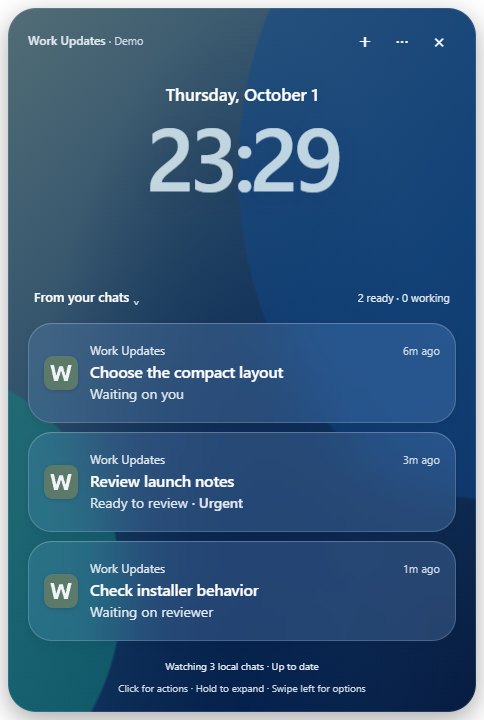
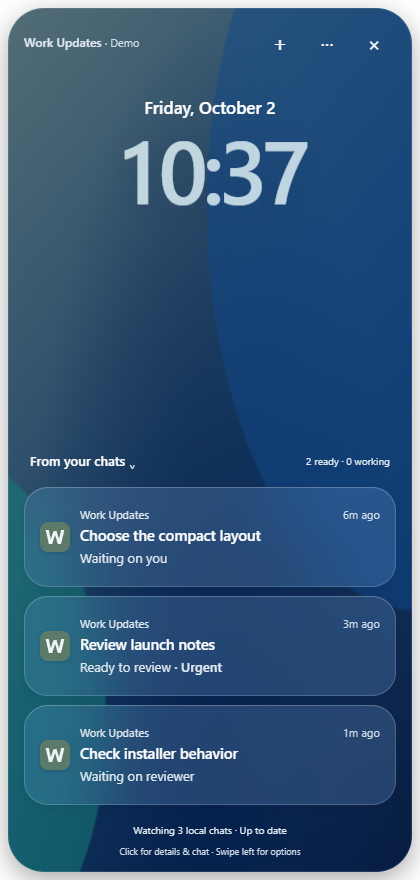
Open full task details on click and restore native panel close clicks

diff --git a/ui/index.html b/ui/index.html
@@ -13,7 +13,7 @@
         <div class="toolbar-actions">
           <button id="new-task" class="icon" aria-label="New task" title="New task">＋</button
           ><button id="settings" class="icon" aria-label="Settings">···</button
-          ><button id="hide" class="icon" aria-label="Hide to tray">×</button>
+          ><button id="hide" class="icon" aria-label="Hide to tray" title="Hide queue">×</button>
         </div>
       </header>
       <section class="clock-area" aria-label="Local time">
@@ -30,7 +30,7 @@
         <button id="show-all" class="quiet" hidden>Show all</button
         ><button id="undo" class="quiet" hidden>Undo</button>
         <div id="connection" role="status">Connecting to local chats…</div>
-        <div class="gesture-hint">Click for actions · Hold to expand · Swipe left for options</div>
+        <div class="gesture-hint">Click for details & chat · Swipe left for options</div>
       </footer>
     </main>
     <div id="scrim" hidden>

diff --git a/ui/app.js b/ui/app.js
@@ -242,7 +242,7 @@ if ($('corner-toggle')) {
         replacement.dataset.id = id;
         bindPress(
           replacement,
-          () => showCard(id, false),
+          () => showCard(id, true),
           () => showCard(id, true),
           view !== 'done' && card.status !== 'queued'
             ? (dx) => {
@@ -353,6 +353,7 @@ if ($('corner-toggle')) {
     $('panel').replaceChildren();
     $('panel').setAttribute('aria-label', title);
     $('scrim').hidden = false;
+    document.body.classList.add('panel-open');
     $('shell').inert = true;
     const top = node('div');
     top.className = 'panel-top';
@@ -374,6 +375,7 @@ if ($('corner-toggle')) {
     selected = null;
     swipeId = null;
     $('scrim').hidden = true;
+    document.body.classList.remove('panel-open');
     $('shell').inert = false;
     render();
     if (before?.isConnected) before.focus();

diff --git a/ui/style.css b/ui/style.css
@@ -42,6 +42,7 @@ select {
   font: inherit;
 }
 button {
+  -webkit-app-region: no-drag;
   border: 0;
   border-radius: 12px;
   background: #ffffff16;
@@ -88,8 +89,9 @@ button.quiet:hover {
   background: #ffffff14;
 }
 button.icon {
-  min-width: 34px;
-  min-height: 34px;
+  min-width: 44px;
+  min-height: 44px;
+  flex-shrink: 0;
   padding: 4px;
   font-size: 20px;
   background: transparent;
@@ -141,6 +143,11 @@ button.icon:hover {
 .toolbar-actions {
   display: flex;
   gap: 3px;
+  -webkit-app-region: no-drag;
+}
+/* Native caption regions still intercept clicks through a DOM modal. */
+body.panel-open .toolbar,
+body.panel-open .clock-area {
   -webkit-app-region: no-drag;
 }
 .clock-area {
@@ -405,6 +412,7 @@ footer button {
   margin-top: 8px;
 }
 #scrim {
+  -webkit-app-region: no-drag;
   position: fixed;
   inset: 8px;
   border-radius: 28px;

diff --git a/docs/DESIGN.md b/docs/DESIGN.md
@@ -10,13 +10,13 @@ A card shows the task title, status, and age. Chat names and message text live i
 
 | Input                      | Card                             | New-task button                       |
 | -------------------------- | -------------------------------- | ------------------------------------- |
-| Left click / Enter / Space | Focused action panel             | Task composer                         |
+| Left click / Enter / Space | Details and compact conversation | Task composer                         |
 | Hold 650 ms                | Details and compact conversation | Composer with project options         |
 | Right click / Shift+F10    | Same details and conversation    | Same composer with project options    |
 | Escape / outside click     | Return to the queue              | Cancel composer; preserve typed draft |
 | Swipe left                 | Reveal Snooze and Reviewed       | —                                     |
 
-Menus are accelerators, never the sole route to a feature. A visible **Details & chat** action gives keyboard and mouse users a discoverable alternative to holding.
+Click opens the full task information and compact conversation directly. Hold and context-menu gestures are optional alternatives to the same view. Open chat, Mark done, Reviewed and Snooze 1h remain below the expanded content.
 
 New tasks have a title, prompt, and optional workspace. **Queue task** saves a draft without starting inference. **Start chat** creates one conversation for that task. Starting is idempotent; retry after failure resumes the same conversation. The default task workspace is a dedicated folder. Permission prompts and blockers stay visible until answered; the app never silently accepts them.
 
@@ -34,7 +34,7 @@ The user's latest direction replaces the iCloud dashboard surface treatment. Use
 
 The compact/options images are explicitly named iOS 26; the developer example is older. They establish visible structure, not pixel-exact iOS 27 rendering. Apple's [current iPhone notification guide](https://support.apple.com/guide/iphone/view-and-respond-to-notifications-iph6534c01bc/ios) verifies hold-to-expand and quick actions. No verified current iOS 27 hold screenshot was found. Do not claim these assets demonstrate it.
 
-Keep click for quick actions, as requested earlier. Apple normally uses tap to open the source app: our mapping is an explicit desktop adaptation. Hold 650 ms expands the same card, with press feedback and origin-based expansion, full context, a reply and actions. Right click and Shift+F10 provide the same expanded view. Escape/outside click closes and returns focus. Dragging cancels the hold; releasing a successful hold never opens a second panel. Reduced motion removes press/expansion animations.
+Click now expands the notification directly, following the user's October 2 update. Apple normally uses tap to open the source app: our mapping is an explicit desktop adaptation. Hold 650 ms opens the same view, with press feedback and origin-based expansion, full context, a reply and actions. Right click and Shift+F10 provide the same expanded view. Escape/outside click closes and returns focus. Dragging cancels the hold; releasing a successful hold never opens a second panel. Reduced motion removes press/expansion animations.
 
 Remove the split slate header/black body, colored status pills, always-visible per-card X, decorative fake stacks and blue/green action blocks. Underlays mean actual grouped chats only. Use a continuous frosted material and monochrome command rows. Text remains readable against the original background. Windows uses Segoe UI fallback; CSS backdrop blur approximates the material and does not implement Apple's native Liquid Glass optics.
 
@@ -46,13 +46,13 @@ The weather input surface must stay above the taskbar while the pointer is insid
 
 The target uses a 220 ms hover dwell to open a temporary peek without stealing focus. Leaving both target and queue for 400 ms closes the peek. Clicking either retains it; dragging its header retains it and remembers the new position. Clicking the target again hides it and suppresses another hover until the pointer leaves. Dock the peek above the taskbar, preserve the previous floating position during temporary peeks, and preserve explicit hide/keyboard/tray controls. These are product-specific desktop behaviors, not Apple's Lock Screen gestures.
 
-With the weather shortcut enabled, launching or relaunching starts the background companion without pinning the queue open. An explicit Show queue action retains it; the X hides it and leaves the weather shortcut running. Verify X with actual Windows mouse input as well as renderer tests. A relaunch after hiding must not reveal or retain the queue. Test header dragging and weather clicks against the installed app, not just calls to its window controller.
+With the weather shortcut enabled, launching or relaunching starts the background companion without pinning the queue open. An explicit Show queue action retains it; the X hides it and leaves the weather shortcut running. The panel X returns to the queue. All icon controls have 44px targets. Opening a panel disables the underlying native caption regions: DOM overlays and inert alone do not stop Windows intercepting their clicks as dragging. Verify the panel X has a native client hit and closes with actual Windows mouse input as well as renderer tests. A relaunch after hiding must not reveal or retain the queue. Test header dragging and weather clicks against the installed app, not just calls to its window controller.
 
 Keep existing notification DOM, decoded icons and blur layers when visibility changes or an unchanged watcher heartbeat arrives. Only replace the queue when its visible content changes, and assemble changes before replacing it. Repeated hovers must each reveal the queue once without rebuilding unchanged cards.
 
 Reveal the whole desktop surface from the left over 240 ms and reverse the same motion on dismissal. Use a transparent, shadowless native surface that stays painted after startup, with mouse input ignored while concealed; do not cycle native show/hide on hover. Concealed content is fully outside the viewport and transparent, including panels and notices. Preserve hover focus, click retention, saved drag positions and rapid direction reversal. Reduced motion reveals and conceals immediately. Verify rendered motion and transparent concealed pixels, rather than counting native show events as proof against flashing. This left-edge motion is the user's desktop requirement, not a claimed Apple gesture.
 
-Use a 420×880 portrait notification queue, limited by the display's available height. This extends the weather preview upward while keeping its bottom anchor and gives the surface the tall, narrow silhouette of the inspected Apple Lock Screen reference. Keep the quiet Work Updates toolbar, date and clock above the notifications; give the clock 32px of top space and round the continuous outer surface to 36px. Do not add a fake notch, bezel, battery or signal indicators. A heading menu opens Updates, Queued and Done; the plus button opens the composer. At 390×590, reduce clock space and card padding while keeping titles readable and controls reachable. Expanded windows retain one readable queue column. Card titles wrap to two lines; full text is available by holding. Long waiting-owner text wraps. Panels retain the background queue's positions while open, and replies survive dismissal. Main command targets are at least 44px; keyboard focus remains visible; collapsed settings do not participate in the dialog's Tab cycle. Verify the taller preview fits above the taskbar and all quick-action and hold controls remain reachable.
+Use a 420×880 portrait notification queue, limited by the display's available height. This extends the weather preview upward while keeping its bottom anchor and gives the surface the tall, narrow silhouette of the inspected Apple Lock Screen reference. Keep the quiet Work Updates toolbar, date and clock above the notifications; give the clock 32px of top space and round the continuous outer surface to 36px. Do not add a fake notch, bezel, battery or signal indicators. A heading menu opens Updates, Queued and Done; the plus button opens the composer. At 390×590, reduce clock space and card padding while keeping titles readable and controls reachable. Expanded windows retain one readable queue column. Card titles wrap to two lines; full text is available by clicking. Long waiting-owner text wraps. Panels retain the background queue's positions while open, and replies survive dismissal. Main command targets are at least 44px; keyboard focus remains visible; collapsed settings do not participate in the dialog's Tab cycle. Verify the taller preview fits above the taskbar and all details and action controls remain reachable.
 
 Waiting on you always sorts first, then urgent items, then other actionable blockers and review items. Ordinary working items and external waits follow. Waiting cards must identify the owner. Extract only explicit names or roles from the latest recorded response; unknown owners are labeled as unclear. Details support a named waiting owner and Automatic/Urgent/Normal priority. Group cards surface their highest-attention source, keeping every source conversation attached. Ownership and urgency changes never alter completion fingerprints or replay reviewed history.
 

diff --git a/README.md b/README.md
@@ -6,8 +6,8 @@ A small native desktop queue for work spread across Codex chats. See what needs 
 
 ## Use it
 
-- **Click a card** for Open chat, Mark done, Reviewed and Snooze 1h.
-- **Hold or right-click** for details and a compact conversation. Keyboard users can press Shift+F10 or choose Details & chat.
+- **Click a card** for full details and a compact conversation, with Open chat, Mark done, Reviewed and Snooze 1h below.
+- **Hold or right-click** opens the same details. Enter, Space and Shift+F10 also work; no hold is required.
 - **New task** saves a title and prompt in Queued. Start chat creates one dedicated Codex conversation. Queue & start chat is also available.
 - **From your chats ⌄** switches between Updates, Queued and Done. The main surface stays a simple lock-screen notification stack.
 - **Done** closes the actual task. Reviewed only acknowledges an update. Undo and Reopen are available; neither action archives the source chat.
@@ -19,7 +19,7 @@ A small native desktop queue for work spread across Codex chats. See what needs 
 
 The app updates existing local Codex chats every few seconds. Tasks started in Work Updates stream their replies and approval requests immediately. Ordinary commentary stays quiet; a hidden window can notify when a task is blocked or needs input. A finished agent pass appears as Ready to review, and only you decide when its task is Done.
 
-![Focused quick actions](assets/actions.png)
+![Task details, conversation and quick actions](assets/actions.png)
 
 ## Install
 
